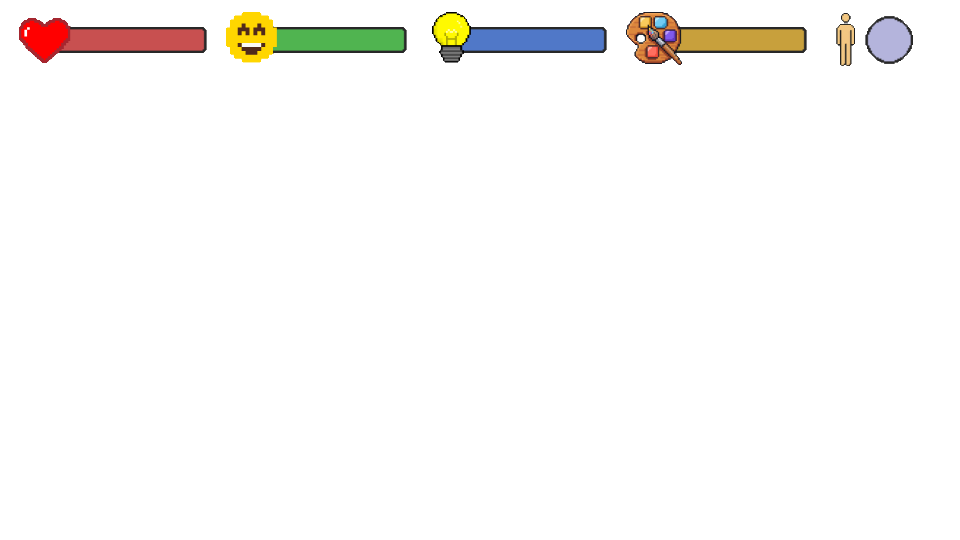
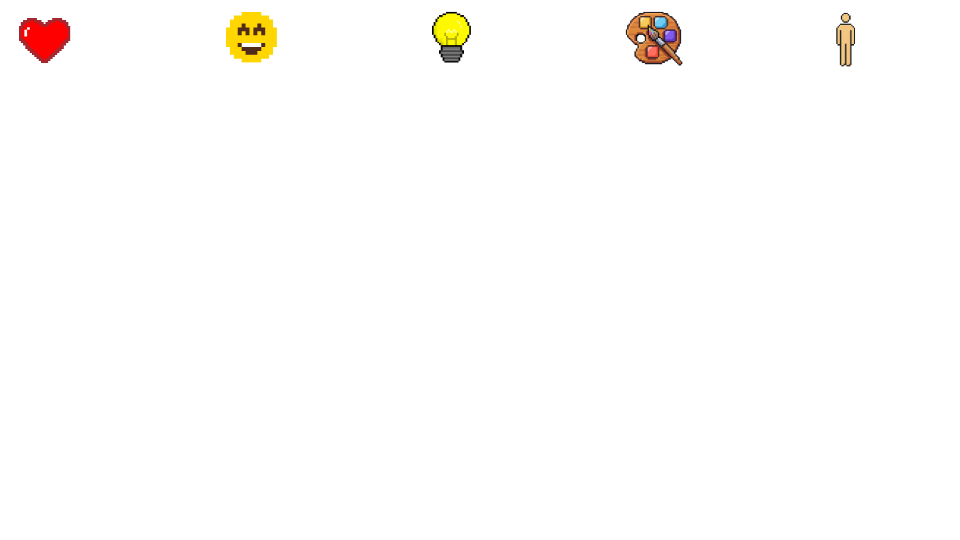
fix: fix minor bugs in gameplay code

diff --git a/obstacles.py b/obstacles.py
@@ -177,9 +177,6 @@ class JobRejectObstacle(ChasingObstacle):
 def _on_screen_min_midbottom_y(height: int) -> int:
     return height
 
-
-# Per-subtype physics tuning. Kept as module constants because they describe
-# *how a kind moves*, not per-instance data.
 JOB_REJECT_AMPLITUDE = 35.0
 JOB_REJECT_OMEGA = 0.06  # rad/frame
 BULLY_CHASE_SPEED = 3
@@ -305,6 +302,8 @@ OBSTACLE_STAGES: dict[str, tuple[str, ...]] = {
     "young_adult": ("job_reject",) * 8,
 }
 
+DAMAGE_FLASH_FRAMES = 12
+
 
 # ---------------------------------------------------------------------------
 # Manager
@@ -320,6 +319,7 @@ class ObstacleManager:
         self._schedule = SpawnSchedule([], [])
         self._frame = 0
         self._game_over = False
+        self._damage_flash_frames_left = 0
 
     # ---- lifecycle ----------------------------------------------------
 
@@ -335,6 +335,7 @@ class ObstacleManager:
             sprite.kill()
         self._schedule = SpawnSchedule([], [])
         self._frame = 0
+        self._damage_flash_frames_left = 0
 
     # ---- per-frame ----------------------------------------------------
 
@@ -359,6 +360,13 @@ class ObstacleManager:
     def is_game_over(self) -> bool:
         return self._game_over
 
+    def consume_damage_flash(self) -> bool:
+        """Return True while damage flash is active and consume one frame."""
+        if self._damage_flash_frames_left <= 0:
+            return False
+        self._damage_flash_frames_left -= 1
+        return True
+
     # ---- helpers ------------------------------------------------------
 
     def _resolve_collisions(self, player) -> None:
@@ -370,6 +378,7 @@ class ObstacleManager:
             if effects is None:
                 continue
             self.game_state.apply(effects)
+            self._damage_flash_frames_left = DAMAGE_FLASH_FRAMES
             if self.game_state.health <= 0:
                 self.game_state.health = 0
                 self._game_over = True

diff --git a/main.py b/main.py
@@ -3,7 +3,13 @@ from enum import Enum, auto
 
 import pygame
 
-from config import WINDOW_WIDTH, WINDOW_HEIGHT, FPS, WINDOW_TITLE
+from config import (
+    WINDOW_WIDTH,
+    WINDOW_HEIGHT,
+    FPS,
+    WINDOW_TITLE,
+    DAMAGE_EFFECT_IMAGE,
+)
 from game_state import GameState
 from levels import all_level_states
 from scene_manager import SceneManager
@@ -46,6 +52,14 @@ class Game:
         self.pause_screen = PauseScreen(self.screen)
         self.game_over_screen = GameOverScreen(self.screen)
         self.stats_overlay = StatsOverlay(self.game_state)
+        self._damage_flash_surface: pygame.Surface | None = None
+        try:
+            img = pygame.image.load(DAMAGE_EFFECT_IMAGE).convert_alpha()
+            self._damage_flash_surface = pygame.transform.smoothscale(
+                img, (WINDOW_WIDTH, WINDOW_HEIGHT)
+            )
+        except (pygame.error, FileNotFoundError, OSError):
+            pass
 
         self.scene_manager = SceneManager(self.screen, all_level_states(), self.game_state)
 
@@ -87,6 +101,11 @@ class Game:
         else:
             self.scene_manager.draw()
             self.stats_overlay.draw(self.screen)
+            if (
+                self._damage_flash_surface is not None
+                and self.scene_manager.consume_damage_flash()
+            ):
+                self.screen.blit(self._damage_flash_surface, (0, 0))
             if self.mode is GameMode.PAUSED:
                 self.pause_screen.draw()
         pygame.display.flip()

diff --git a/screens/start_screen.py b/screens/start_screen.py
@@ -1,5 +1,4 @@
 import pygame
-import pygwidgets
 
 from config import WINDOW_WIDTH, WINDOW_HEIGHT, START_SCREEN_IMAGE
 
@@ -10,23 +9,6 @@ class StartScreen:
         self._bg: pygame.Surface | None = None
         self._load_background()
 
-        btn_w, btn_h = 160, 44
-        x = (WINDOW_WIDTH - btn_w) // 2
-        y = (WINDOW_HEIGHT - btn_h) // 2
-        self.start_button = pygwidgets.TextButton(
-            window,
-            (x, y),
-            "Start",
-            width=btn_w,
-            height=btn_h,
-            textColor=(248, 244, 232),
-            upColor=(150, 98, 58),
-            overColor=(176, 118, 72),
-            downColor=(120, 76, 46),
-            fontName=None,
-            fontSize=22,
-        )
-
     def _load_background(self) -> None:
         try:
             img = pygame.image.load(START_SCREEN_IMAGE).convert()
@@ -35,12 +17,11 @@ class StartScreen:
             self._bg = None
 
     def handle_event(self, event: pygame.event.Event) -> bool:
-        """Return True if Start was clicked."""
-        return bool(self.start_button.handleEvent(event))
+        """Return True when Space is pressed to start."""
+        return bool(event.type == pygame.KEYDOWN and event.key == pygame.K_SPACE)
 
     def draw(self) -> None:
         if self._bg is not None:
             self.window.blit(self._bg, (0, 0))
         else:
             self.window.fill((32, 48, 64))
-        self.start_button.draw()

diff --git a/scene_manager.py b/scene_manager.py
@@ -139,7 +139,15 @@ class SceneManager:
         return pygame.transform.smoothscale(img, (WINDOW_WIDTH, WINDOW_HEIGHT))
 
     def _activate_player(self, state: SceneState):
+        prev_player = self.player
         self.player = state.player_class()
+        
+        if prev_player is not None:
+            self.player.rect.midbottom = prev_player.rect.midbottom
+            self.player.vel_y = prev_player.vel_y
+            self.player.on_ground = prev_player.on_ground
+            self.player.jumps_remaining = prev_player.jumps_remaining
+
         self.all_sprites.empty()
         self.all_sprites.add(self.player)
 
@@ -157,8 +165,12 @@ class SceneManager:
     def is_game_over(self) -> bool:
         return self.obstacle_manager.is_game_over()
 
+    def consume_damage_flash(self) -> bool:
+        """Return True while a recent obstacle hit should flash the screen."""
+        return self.obstacle_manager.consume_damage_flash()
+
     def handle_event(self, event: pygame.event.Event):
-        if event.type == pygame.KEYDOWN and event.key == pygame.K_SPACE:
+        if event.type == pygame.KEYDOWN and event.key == pygame.K_UP:
             if self.player:
                 self.player.jump()
 

diff --git a/config.py b/config.py
@@ -9,6 +9,7 @@ START_SCREEN_IMAGE = "assets/images/start_screen.png"
 PAUSE_SCREEN_IMAGE = "assets/images/pause_screen.png"
 OVERLAY_SCREEN_IMAGE = "assets/images/overlay_screen.png"
 GAME_OVER_SCREEN_IMAGE = "assets/images/game over_screen.png"
+DAMAGE_EFFECT_IMAGE = "assets/images/damage_effect.png"
 
 # Colors
 WHITE = (255, 255, 255)
@@ -48,7 +49,6 @@ BABY_BACKGROUND_TRANSITION_IMAGES = [
 ]
 
 # --- Toddler ---
-# toddler_player_run1 does not exist; reuse run2 for both frames
 TODDLER_PLAYER_RUN1_IMAGE = "assets/images/toddler_player_run1.png"
 TODDLER_PLAYER_RUN2_IMAGE = "assets/images/toddler_player_run2.png"
 TODDLER_PLAYER_JUMP_IMAGE = "assets/images/toddler_player_jump.png"
@@ -56,7 +56,7 @@ TODDLER_BACKGROUND_NORMAL_IMAGES = [
     "assets/images/toddler_background_normal1.png",
     "assets/images/toddler_background_normal2.png",
 ]
-TODDLER_BACKGROUND_TRANSITION_IMAGES = []  # no transition art for this stage
+TODDLER_BACKGROUND_TRANSITION_IMAGES = []
 
 # --- Teenager ---
 TEENAGER_PLAYER_RUN1_IMAGE = "assets/images/teenager_player_run1.png"

diff --git a/items.py b/items.py
@@ -93,7 +93,8 @@ SPAWN_BANDS: dict[str, str] = {
 def spawn_bottom_y_range(player=None) -> tuple[int, int]:
     """Return (min_midbottom_y, max_midbottom_y) for the active player."""
     if player is None:
-        return GROUND_Y - 180, SPAWN_BOTTOM_Y_MAX
+        y_min = max(SPAWN_MIDBOTTOM_Y_MIN_ON_SCREEN, GROUND_Y - 180)
+        return y_min, SPAWN_BOTTOM_Y_MAX
 
     h = int(round(player.DISPLAY_HEIGHT))
     raw_min = (DOUBLE_JUMP_FEET_Y - h) + ITEM_SIZE
@@ -104,7 +105,9 @@ def spawn_bottom_y_range(player=None) -> tuple[int, int]:
     elif policy == "by_reach":
         y_min = raw_min
     else:
-        y_min = max(SPAWN_MIDBOTTOM_Y_MIN_ON_SCREEN, raw_min)
+        y_min = raw_min
+
+    y_min = max(SPAWN_MIDBOTTOM_Y_MIN_ON_SCREEN, y_min)
 
     return min(y_min, SPAWN_BOTTOM_Y_MAX), SPAWN_BOTTOM_Y_MAX
 

diff --git a/screens/stats_overlay.py b/screens/stats_overlay.py
@@ -64,9 +64,6 @@ class StatsOverlay:
         pygame.draw.rect(surface, self.OUTLINE, bg_rect, width=1, border_radius=3)
 
     def draw(self, surface: pygame.Surface) -> None:
-        if self._overlay is not None:
-            surface.blit(self._overlay, (0, 0))
-
         gs = self.game_state
         x = self.LEFT
         y = self.TOP
@@ -91,3 +88,7 @@ class StatsOverlay:
         text_surf = self._font.render(text, True, (30, 30, 40))
         text_rect = text_surf.get_rect(center=(cx, cy))
         surface.blit(text_surf, text_rect)
+
+        # Draw overlay art last so it appears in front of the bars/circle.
+        if self._overlay is not None:
+            surface.blit(self._overlay, (0, 0))
